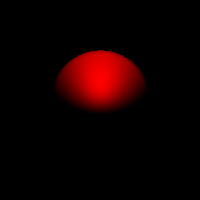
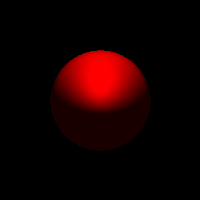
fixes

Changed region(s): [[0.24, 0.24, 0.78, 0.78]]

diff --git a/Main.java b/Main.java
@@ -42,12 +42,11 @@ class Main {
     for (int x = 0; x < resolution[0]; x++) {
       for (int y = 0; y < resolution[1]; y++) {
         vec3 px = new vec3(camera.x() + x * pixel_x, camera.y() + y * pixel_y, camera.z()).add(transform);
-        //System.out.println(px);
         boolean finished = false;
         while (!finished) {
           float closestSignedDist = utils.rayMarch(objects, px);
           Sphere usedObject = (Sphere)objects[0];
-          //System.out.println(closestSignedDist);
+
           if (closestSignedDist < 0.1) {
             float ambient = 0.1f;
             float diffuse = vec3.dot(usedObject.getNormal(px),vec3.getDirVec(px,light.pos()));
@@ -55,13 +54,19 @@ class Main {
               diffuse = 0;
             }
             vec3 baseColor = new vec3(255,0,0);
-            frame.setRGB(x, y, utils.getRGB(baseColor.mult(diffuse)));
+            vec3 calcColor = vec3.add(vec3.scale(baseColor,ambient),vec3.scale(baseColor,diffuse));
+            if (calcColor.x() > 255) {
+              calcColor.setX(255f);
+            }
+            frame.setRGB(x, y, utils.getRGB(calcColor));
             finished = true;
           } 
+          
           else if (closestSignedDist > maxDist) {
             frame.setRGB(x, y, utils.getRGB(0,0,0));
             finished = true;
           }
+
           else {
             px.add(vec3.scale(dir,closestSignedDist));
           }

diff --git a/vec3.java b/vec3.java
@@ -35,6 +35,21 @@ public class vec3 {
     return z;
   }
 
+  public float setX(float x) {
+    this.x = x;
+    return x;
+  }
+
+  public float setY(float y) {
+    this.y = y;
+    return y;
+  }
+
+  public float setZ(float z) {
+    this.z = z;
+    return z;
+  }
+
   public vec3 set(float x, float y, float z) {
     this.x = x;
     this.y = y;
